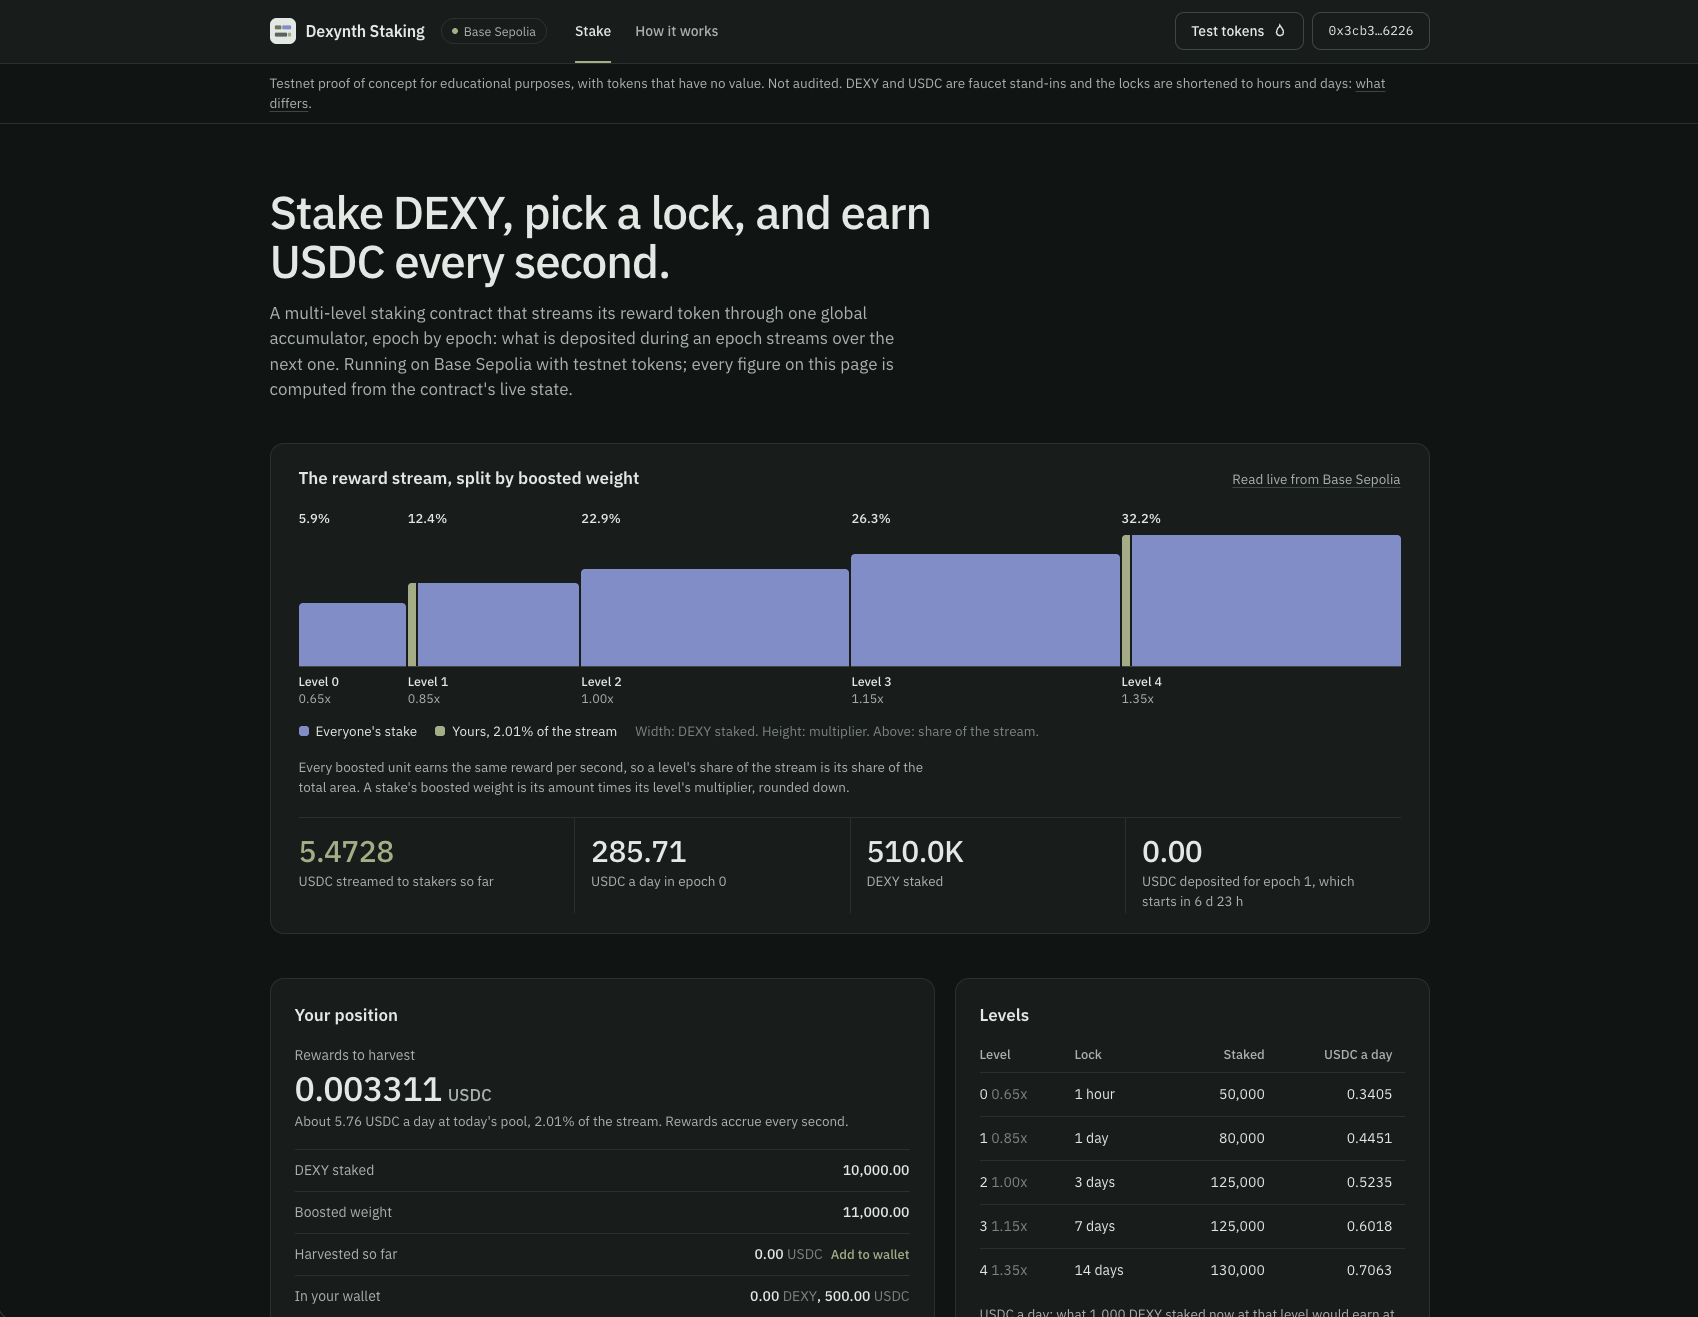
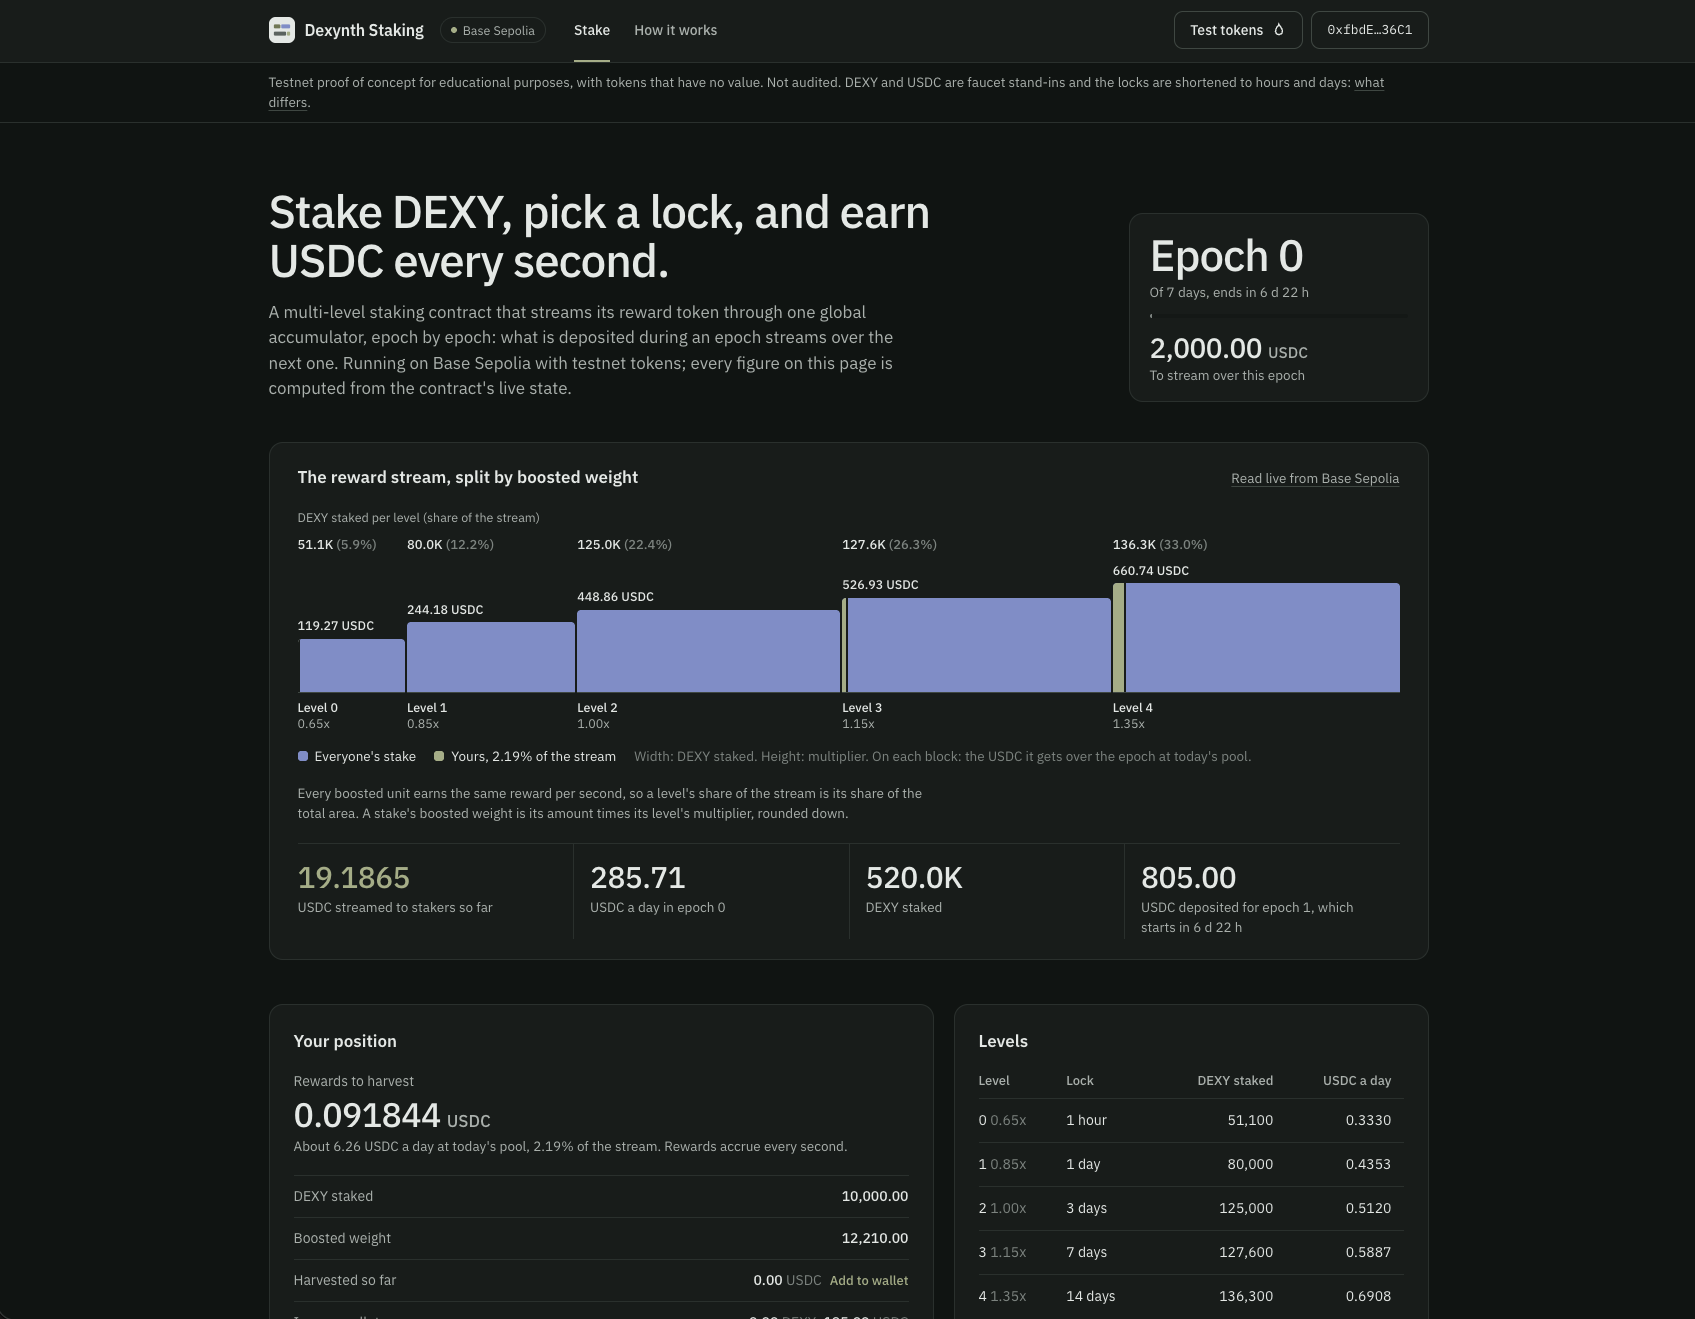
Update the README screenshot
- The staking page with the running epoch beside the headline and the stream split's DEXY, share and per-epoch USDC labels
- The alt text describes the new view

diff --git a/README.md b/README.md
@@ -15,7 +15,7 @@ The original contract was written at Dexynth (2023-2024). v2 to v2.3 are a later
 
 **Live demo:** https://staking-poc.gushalk.workers.dev
 
-[![The demo app's staking page, with the reward stream split by boosted weight read live from Base Sepolia](docs/images/demo-app.png)](https://staking-poc.gushalk.workers.dev)
+[![The demo app's staking page: the running epoch, the reward stream split by boosted weight and what each level gets over the epoch, read live from Base Sepolia](docs/images/demo-app.png)](https://staking-poc.gushalk.workers.dev)
 
 ---
 
